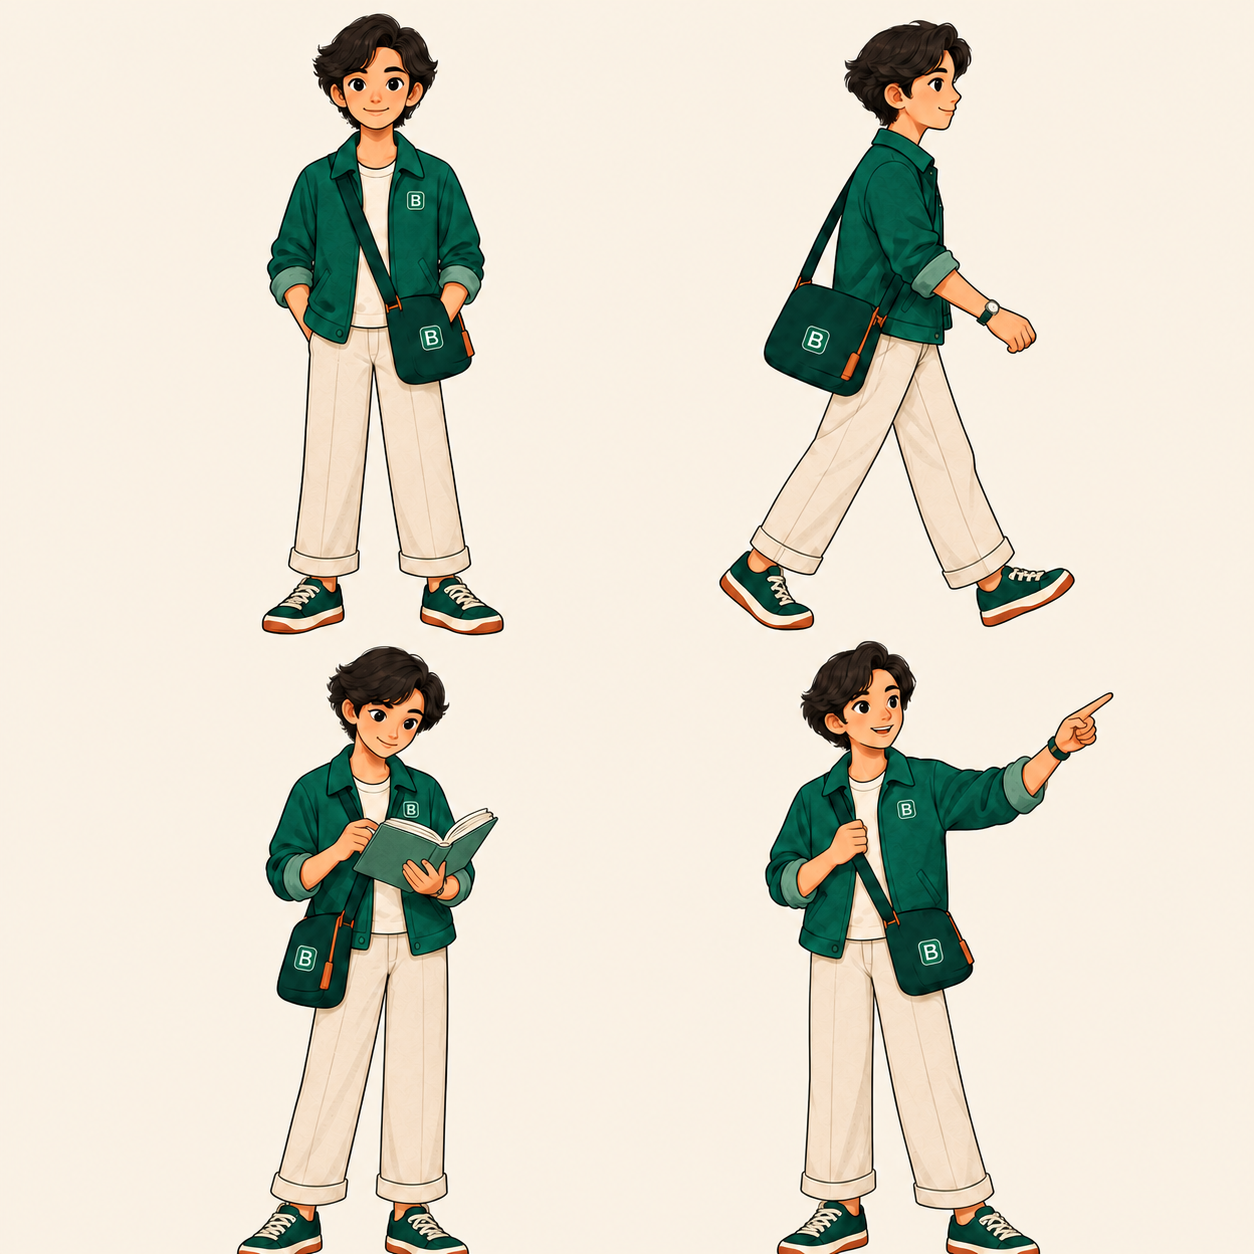
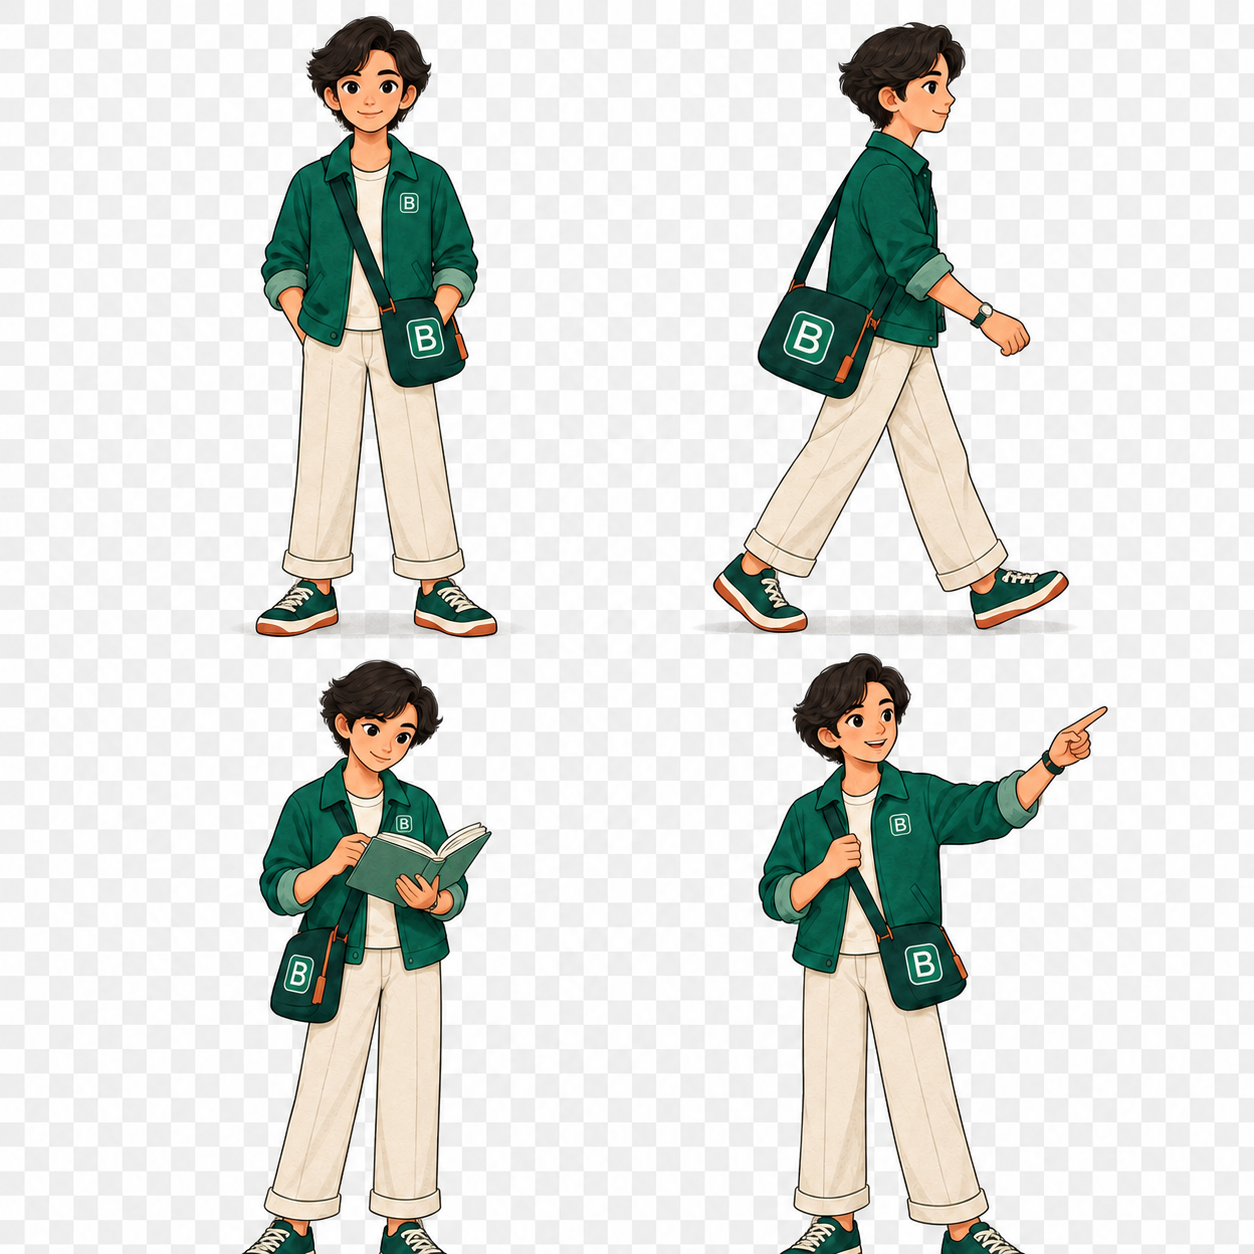
Lock canonical BurmeseBridge IP V2 references

diff --git a/docs/HSK-VOCABULARY-ART-STANDARD.md b/docs/HSK-VOCABULARY-ART-STANDARD.md
@@ -2,9 +2,17 @@
 
 This file is the persistent production standard for every HSK vocabulary illustration.
 
+## Canonical references
+
+- The only approved IP identity sheet is `public/images/brand/burmesebridge-guide-master-v2.png`.
+- The only approved brand-mark master is `public/images/brand/burmesebridge-logo-master.png`.
+- Every new generation or regeneration must use both files as visual references. Do not substitute a previously generated vocabulary card as the identity master.
+- Preserve the V2 model's rounded youthful face, large warm dark eyes, short wavy dark-brown hair, cream T-shirt and trousers, forest-green overshirt, green-and-terracotta shoes, and exact rounded-square `B` emblem.
+- The crossbody bag is a contextual prop, not part of the required silhouette. Include it for travel, school, shopping, commuting, or carrying scenes; omit it for indoor, exercise, eating, sleeping, medical, close-up, or action scenes where it would be unnatural.
+
 - Produce original square artwork at a consistent source size and display it with `object-fit: contain`.
 - Keep every important subject inside the central 80% safe area with generous margins. Never crop heads, hands, feet, logos, or the teaching object.
-- Use BurmeseBridge IP V2: the recurring friendly young Asian learning guide with the same wavy black hair, facial proportions, skin tone, and polished editorial-anime line work.
+- Use BurmeseBridge IP V2: the recurring friendly young Asian learning guide with the same hair, facial proportions, skin tone, clothing construction, footwear, and polished editorial-anime line work shown in the canonical identity sheet.
 - Lock the palette: jacket `#0E5A49`, warm ivory background `#FFF8ED`, cream clothing, restrained terracotta accents, and soft natural light. Do not drift toward blue-green, neon green, yellow-green, or heavily saturated skin tones.
 - A crisp white-outlined green `B` brand mark on the character's outer clothing is mandatory and must remain visible. The green crossbody bag is optional: include it only when natural for the scene, and omit it when it obstructs the action or teaching object. If a bag is present, it should also carry the `B` mark.
 - Communicate one vocabulary meaning clearly through a believable, lively action and scene. Props, body language, location, time, and relationships must support the exact word rather than merely decorate the image. Do not place Chinese, Burmese, English captions, or unreliable generated text inside the artwork.
